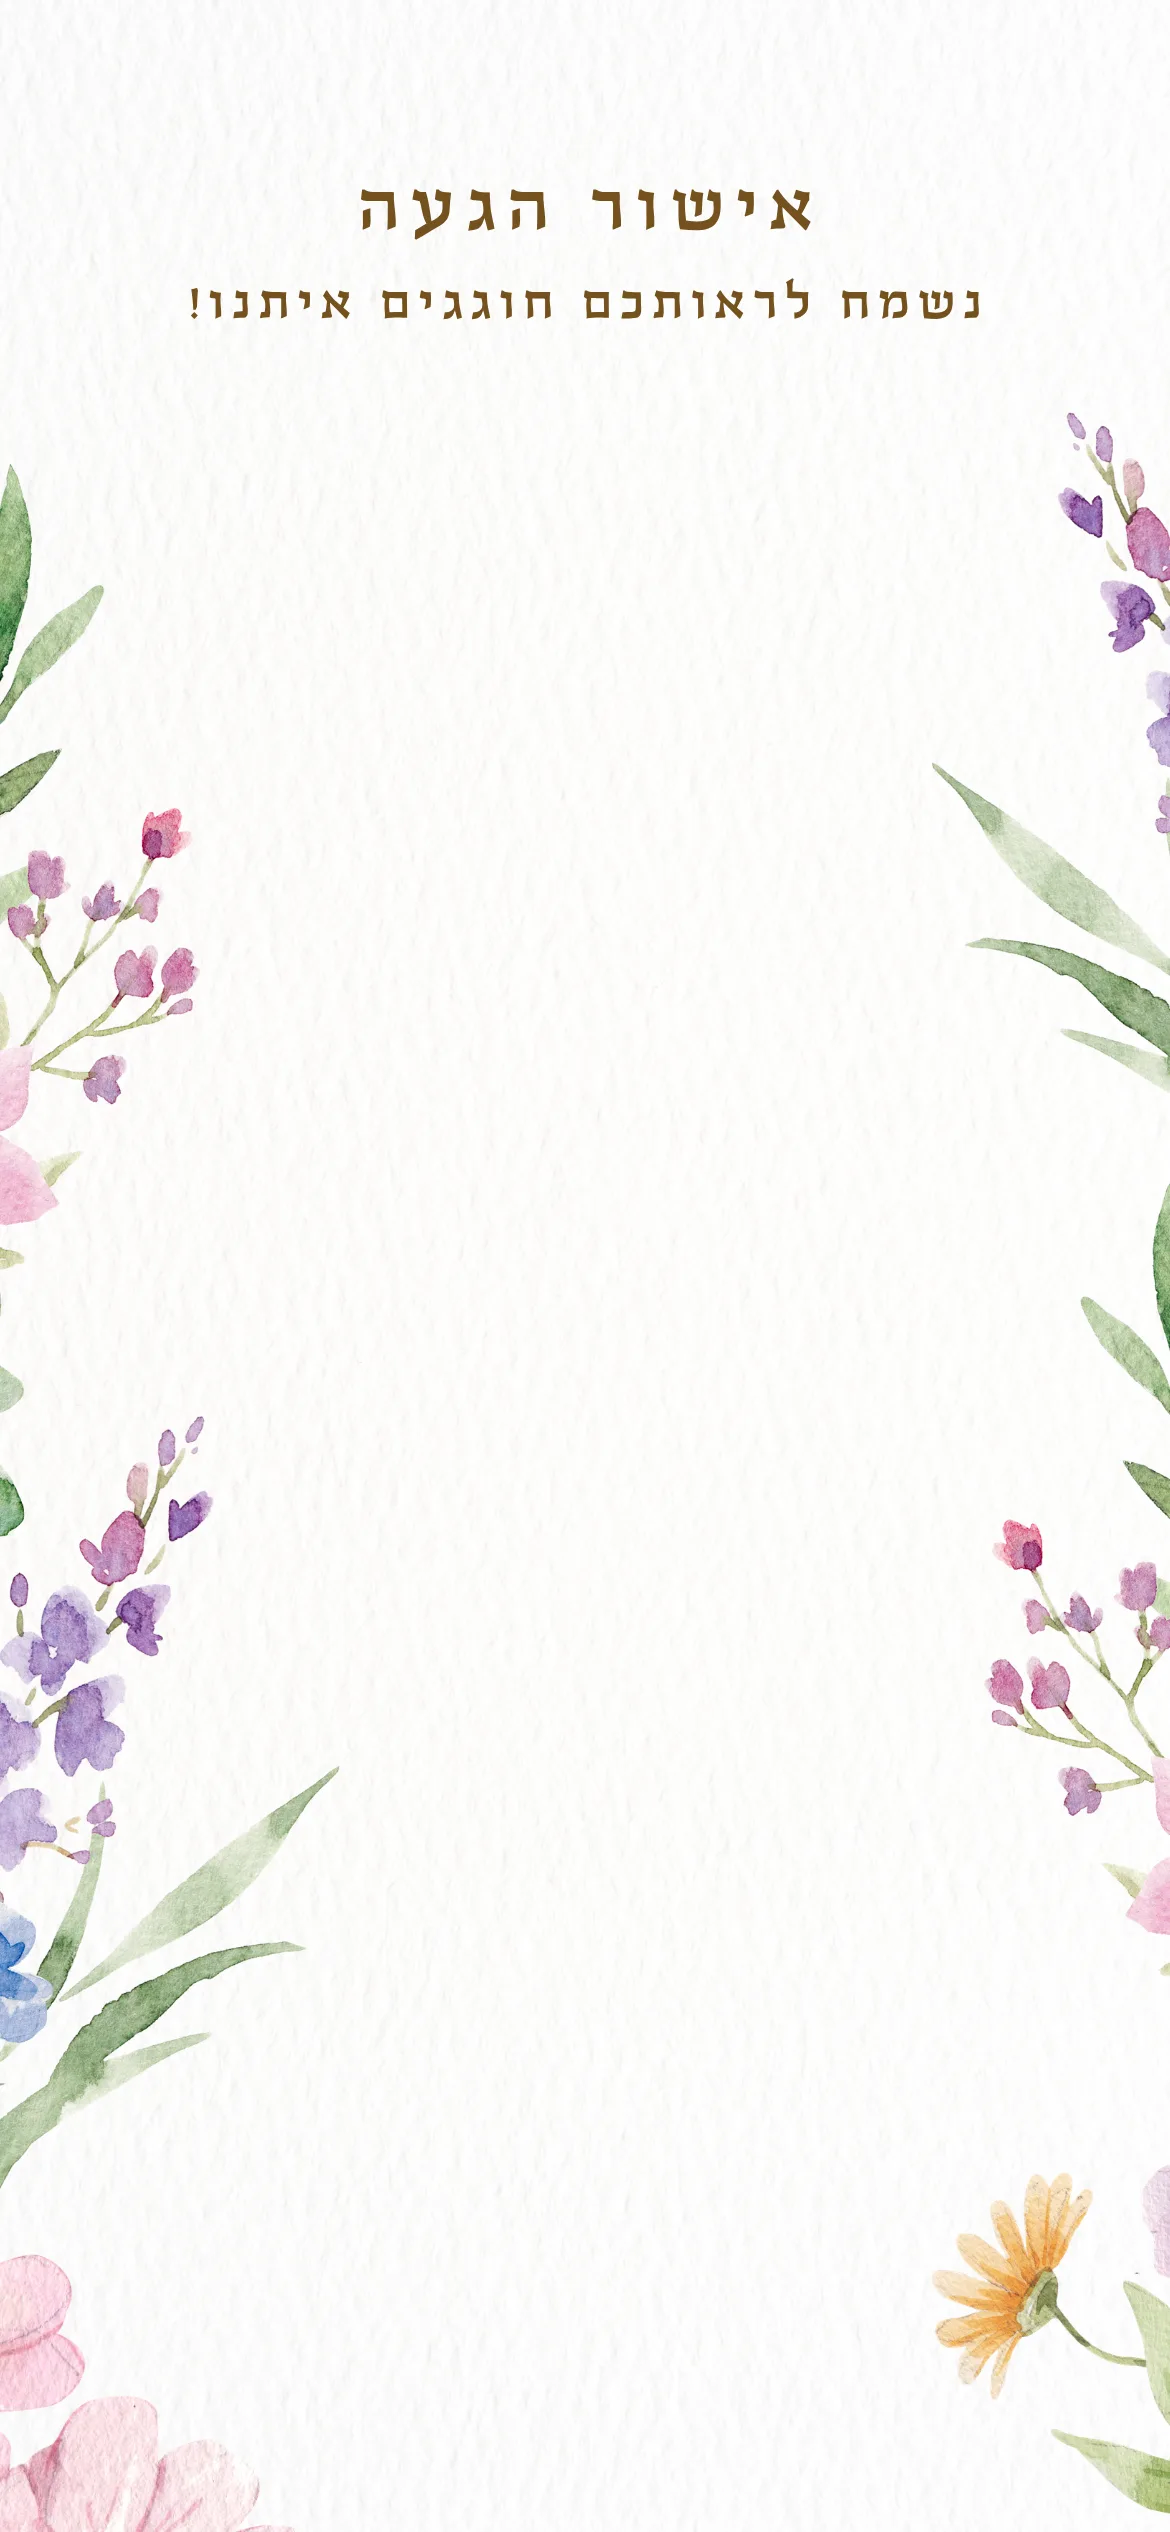
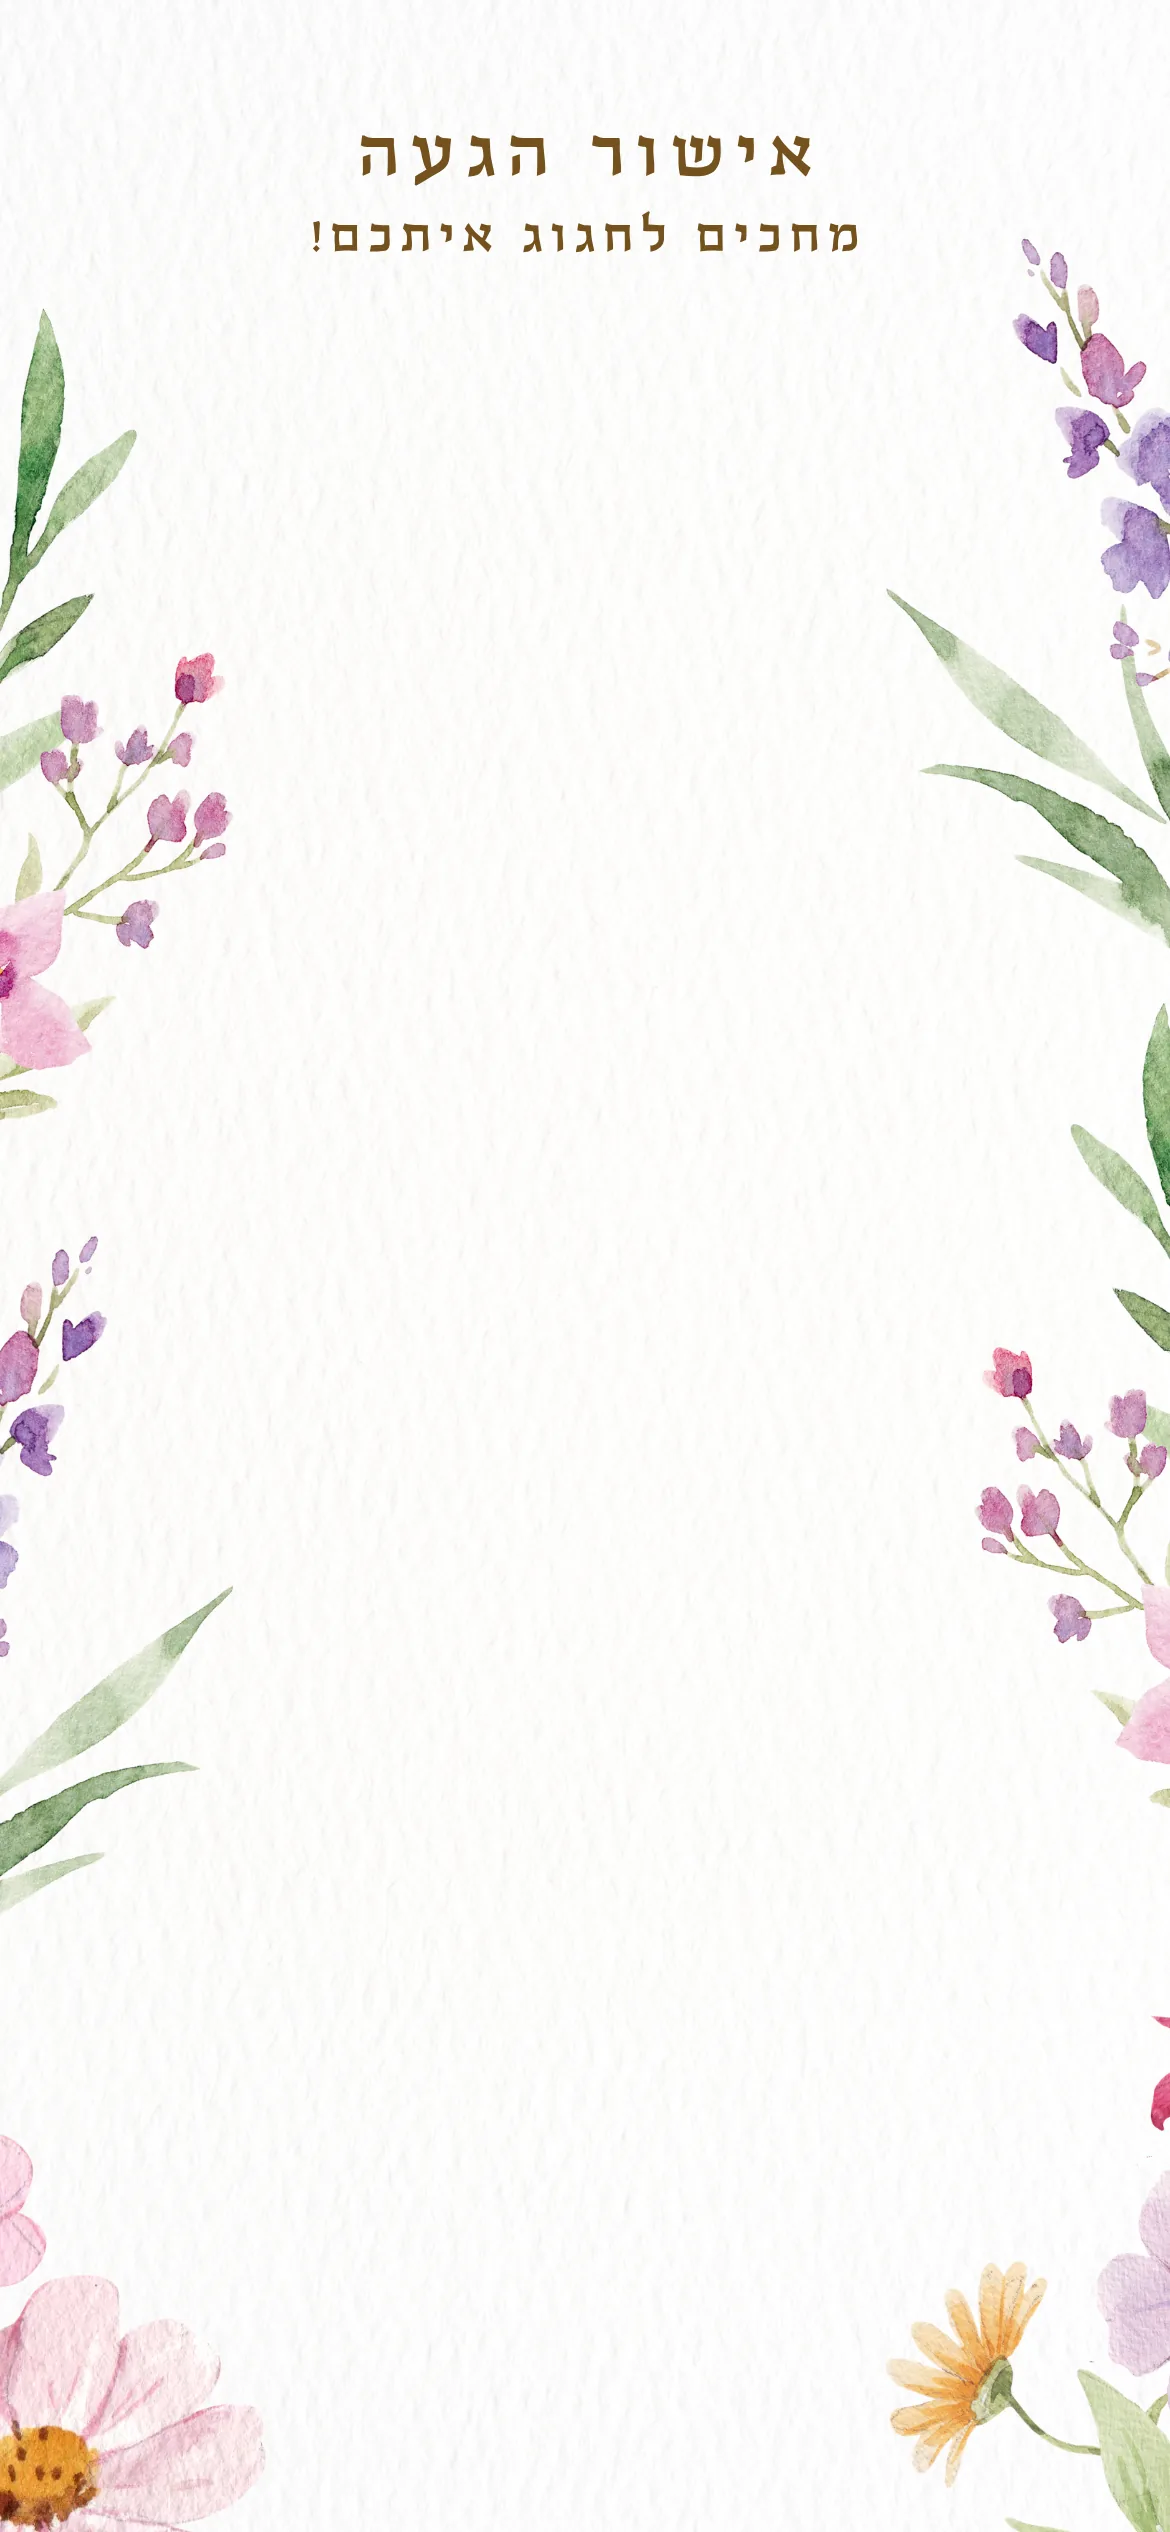
supa b

diff --git a/src/App.jsx b/src/App.jsx
@@ -164,7 +164,7 @@ export default function App() {
             <section id="details" className="design7-enter py-6 px-2.5" style={{ ...frameBg, animationDelay: '0.15s' }}>
               <div className={`relative w-full aspect-[1170/2532] overflow-hidden ${frameBorder}`}>
                 <img src={config.images.detailsImg} alt="" className="absolute inset-0 w-full h-full object-cover" />
-                <div className="absolute inset-x-0 top-[60%] z-10 flex items-center justify-center gap-3">
+                <div className="absolute inset-x-0 top-[62%] z-10 flex items-center justify-center gap-3">
                   <a
                     href={config.navigationUrl}
                     target="_blank"
@@ -186,13 +186,12 @@ export default function App() {
                 className={`design7-rsvp overflow-hidden ${frameBorder}`}
                 style={{
                   backgroundColor: config.paperBg,
-                  // Layers top→bottom: rsvpImg (title) anchored to the top,
-                  // rsvpImg2 (flower) anchored to the bottom so it stays visible
-                  // as the card grows with added guests, paper texture filling behind.
-                  backgroundImage: `url(${config.images.rsvpImg}), url(${config.images.rsvpImg2}), url(${config.images.bgImg})`,
-                  backgroundSize: '100% auto, 100% auto, cover',
-                  backgroundPosition: 'top center, bottom center, top center',
-                  backgroundRepeat: 'no-repeat, no-repeat, no-repeat',
+                  // rsvpImg (title) anchored to the top; paper texture fills
+                  // behind as the card grows with added guests.
+                  backgroundImage: `url(${config.images.rsvpImg}), url(${config.images.bgImg})`,
+                  backgroundSize: '100% auto, cover',
+                  backgroundPosition: 'top center, top center',
+                  backgroundRepeat: 'no-repeat, no-repeat',
                 }}
               >
                 {/* pt clears the baked-in title; relative to card width. */}
@@ -201,6 +200,21 @@ export default function App() {
                 </div>
               </div>
             </section>
+
+            {/* Credit footer */}
+            <footer className="px-2.5 pb-6 pt-2 text-center" style={frameBg}>
+              <p className="font-serif text-xs text-[#7E632E]/70" dir="ltr">
+                © {config.targetDate.getFullYear()}{' '}
+                <a
+                  href="https://tsityat.com/"
+                  target="_blank"
+                  rel="noopener noreferrer"
+                  className="underline decoration-[#9C7C3C]/40 underline-offset-2 transition-colors hover:text-[#7E632E]"
+                >
+                  TSITYAT - AI Boutique Agency
+                </a>
+              </p>
+            </footer>
           </>
         ) : null}
       </div>

diff --git a/src/config.js b/src/config.js
@@ -8,7 +8,6 @@ import heroImg from './assets/hero.webp'
 import introImg from './assets/intro.webp'
 import detailsImg from './assets/details.webp'
 import rsvpImg from './assets/rsvp.webp'
-import rsvpImg2 from './assets/rsvp2.webp'
 import bgImg from './assets/background.webp'
 
 const gold = '#9C7C3C'
@@ -30,7 +29,7 @@ export const config = {
     'https://www.google.com/maps/search/?api=1&query=' +
     encodeURIComponent('אולם אדמה הבושם 16 אשדוד'),
 
-  images: { heroImg, introImg, detailsImg, rsvpImg, rsvpImg2, bgImg },
+  images: { heroImg, introImg, detailsImg, rsvpImg, bgImg },
 
   contacts: [
     { name: 'הלל', phone: '000-0000000', tel: '+0000000000' },
